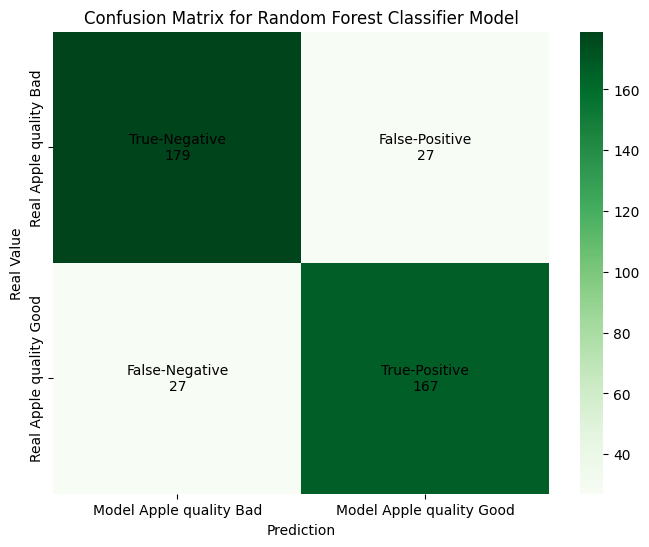
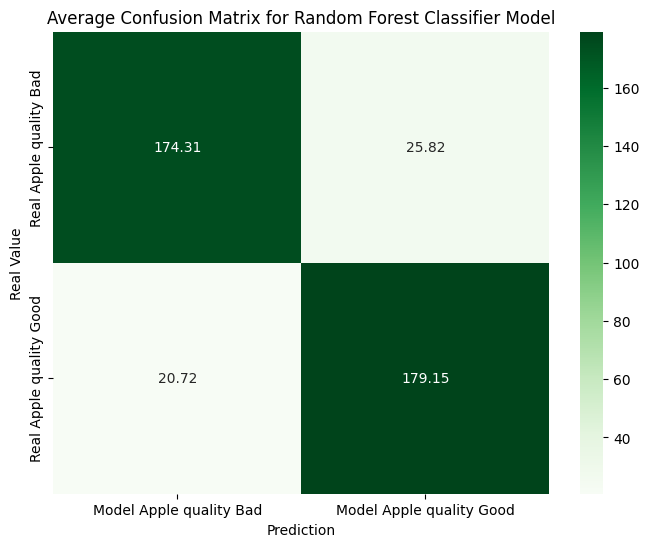
Actualizacion de pagina modelo machine learning

diff --git a/src/components/Machine_learning_model.jsx b/src/components/Machine_learning_model.jsx
@@ -86,14 +86,19 @@ export default function Machine_learning_model() {
                   </CardText>
               </CardBody>
             </Card>
-            <Card className="mx-auto mt-4" style={{ maxWidth: '700px',height:'580px',  marginBottom: '100px' }}>
+            <Card className="mx-auto mt-4" style={{ maxWidth: '700px',height:'740px',  marginBottom: '100px' }}>
             <CardBody style={{display: 'flex', flexDirection: 'column'}} >
             <CardTitle className='text-center text-info'><h3> Preliminary conclusions  🧠🍎🔥❗</h3></CardTitle>
-          
+                   
                   <CardText className="text-center">
-                  In our preliminary conclusions we can say that our random forest classification model is a good model to predict the quality of apples, since it has an AUC of 0.94 and a good performance in the confounding matrix, which indicates that it is a good model to predict apple quality although it can also show us a score of 0.87 depending on the amount of data that is provided. provide in our cross-validation.
-
-                                
+                  In our preliminary conclusions we can say that our random forest classification model is a good model to predict the quality of apples, since it has an AUC of 0.95 in the 1000 cross-validation iterations that were done and a good performance in the matrix of confusion, which indicates that it is a good model for predicting. quality of the apple although we also analyze different averages of the metrics such as:
+          
+                 <ul className="list-group text-center">
+                      <li className="list-group-item">Accuracy: 0.88</li>
+                      <li className="list-group-item">Precision: 0.87</li>
+                      <li className="list-group-item">Recall: 0.90</li>
+                      <li className="list-group-item">F1-score: 0.88</li>
+                    </ul>
                     </CardText>
                     <CardText className="text-center">
                     This type of model is widely used in data classification and data prediction, as it is a model that is based on several decision trees and voting on the results that came out the most in the trees, in this case a vote for the apple that came out the most in the trees.  This can be applied to different similar data for different fruits or foods.                  
@@ -158,7 +163,7 @@ export default function Machine_learning_model() {
               </p>
               <p className=' text-center  text-black '>
          
-              As you will notice the AUC is 0.94 which indicates that it is a good model, we can also apply the score and it will come out with a good performance 🔍🍎.
+As you will see the AUC is 0.95 in our 1000 iterations that we tested the average of this reflects us that e is a good model , we can also apply the different metrics and it will come out with a good performance 🔍🍎.
               </p>
           </Modal.Body>
           </Modal>
@@ -181,7 +186,7 @@ export default function Machine_learning_model() {
         
             </p>
             <p className=' text-center  text-black '>
-            In our case, the confusion matrix shows us that our model performs well, since most of the predictions are correct. 🍎
+           In our case, the confusion matrix shows us that our model works well, since most predictions in the different iterations had good hits with the actual values. 🍎
             </p>
         </Modal.Body>
         </Modal>
